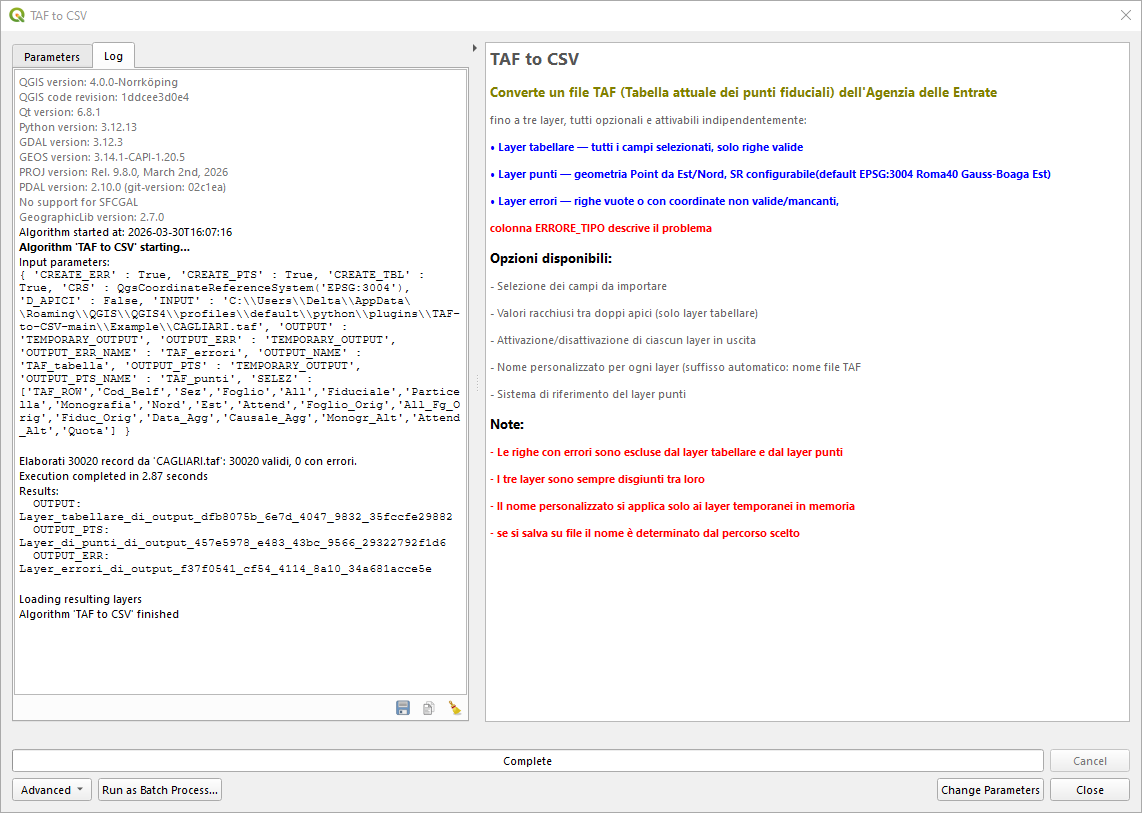
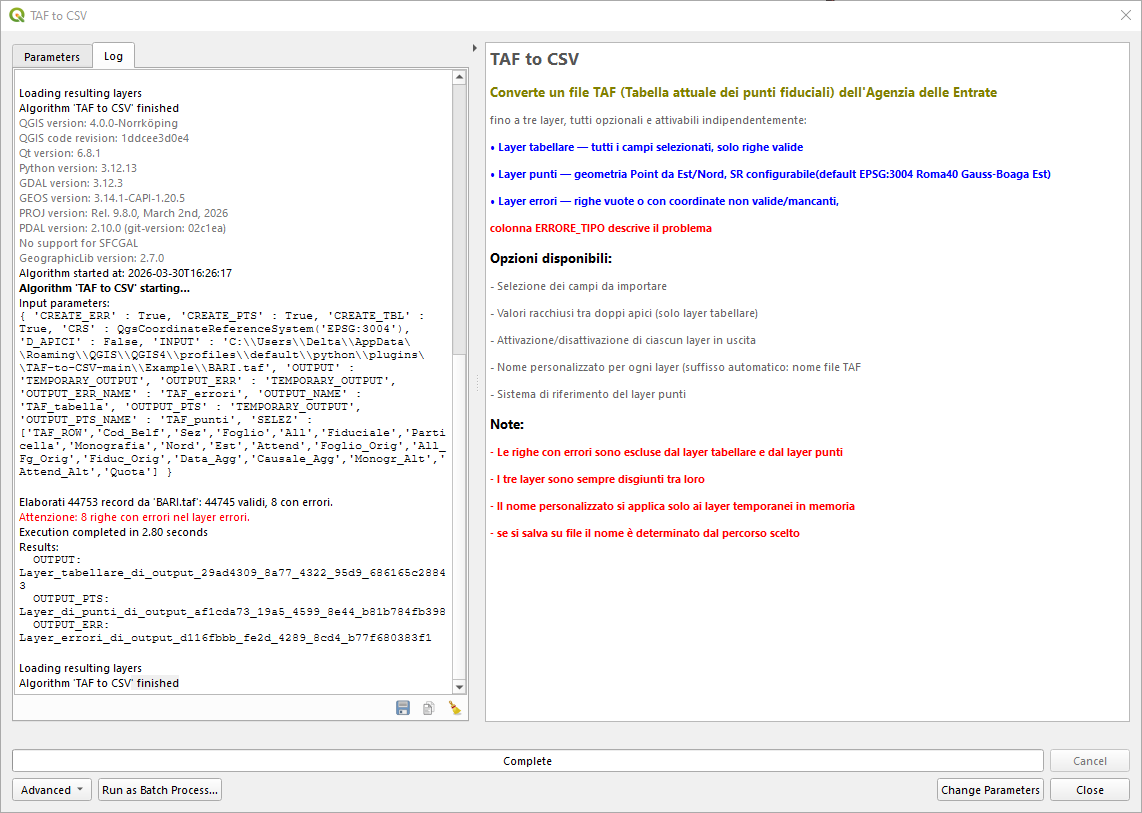
update

Changed region(s): [[0.0, 0.0923, 0.4291, 0.861]]

diff --git a/README.md b/README.md
@@ -23,7 +23,9 @@ Uno con dati tabellari, uno con gli errori tabellati ed ul layer di punti georef
 Il layer di punti potrebbe dare risultati inaspettati a causa di diversi formati di coordinate presenti nel TAF.
 Sono tutti opzionali e possono essere salvati nel formato preferito.
 
-![tre](images/log_selection.png)
+![quattro](images/log_selection.png)
+
+![cinque](images/results_layers.png)
 
 ### Update 29.03.2026
 Aggiunta forma tabellare dei risultati e layer di rappresentazione.
